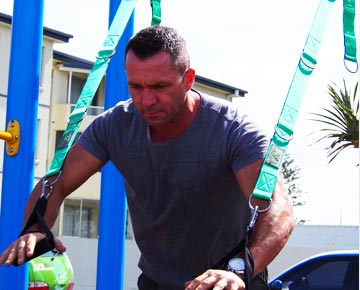
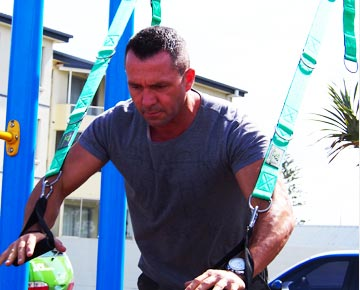
quotes

diff --git a/front-page.php b/front-page.php
@@ -54,7 +54,7 @@
 		</div>
 		<div class="box">
 			<h2><span class="strong">TBT</span>In Action</h2>
-			<a href="<?php echo get_term_link( 319, 'workouts' );?>"><img class="boximg" src="<?php echo get_bloginfo('stylesheet_directory'); ?>/images/tbt-elite-workout.jpg" alt="TBT In Action Gallery" /></a>
+			<a href="<?php echo get_term_link( 319, 'workouts' );?>"><img class="boximg" src="<?php echo get_bloginfo('stylesheet_directory'); ?>/images/tbt-in-action.jpg" alt="TBT In Action Gallery" /></a>
 			<a href="<?php echo get_term_link( 319, 'workouts' );?>" class="button">View Gallery</a>
 		</div>
 	</div>
